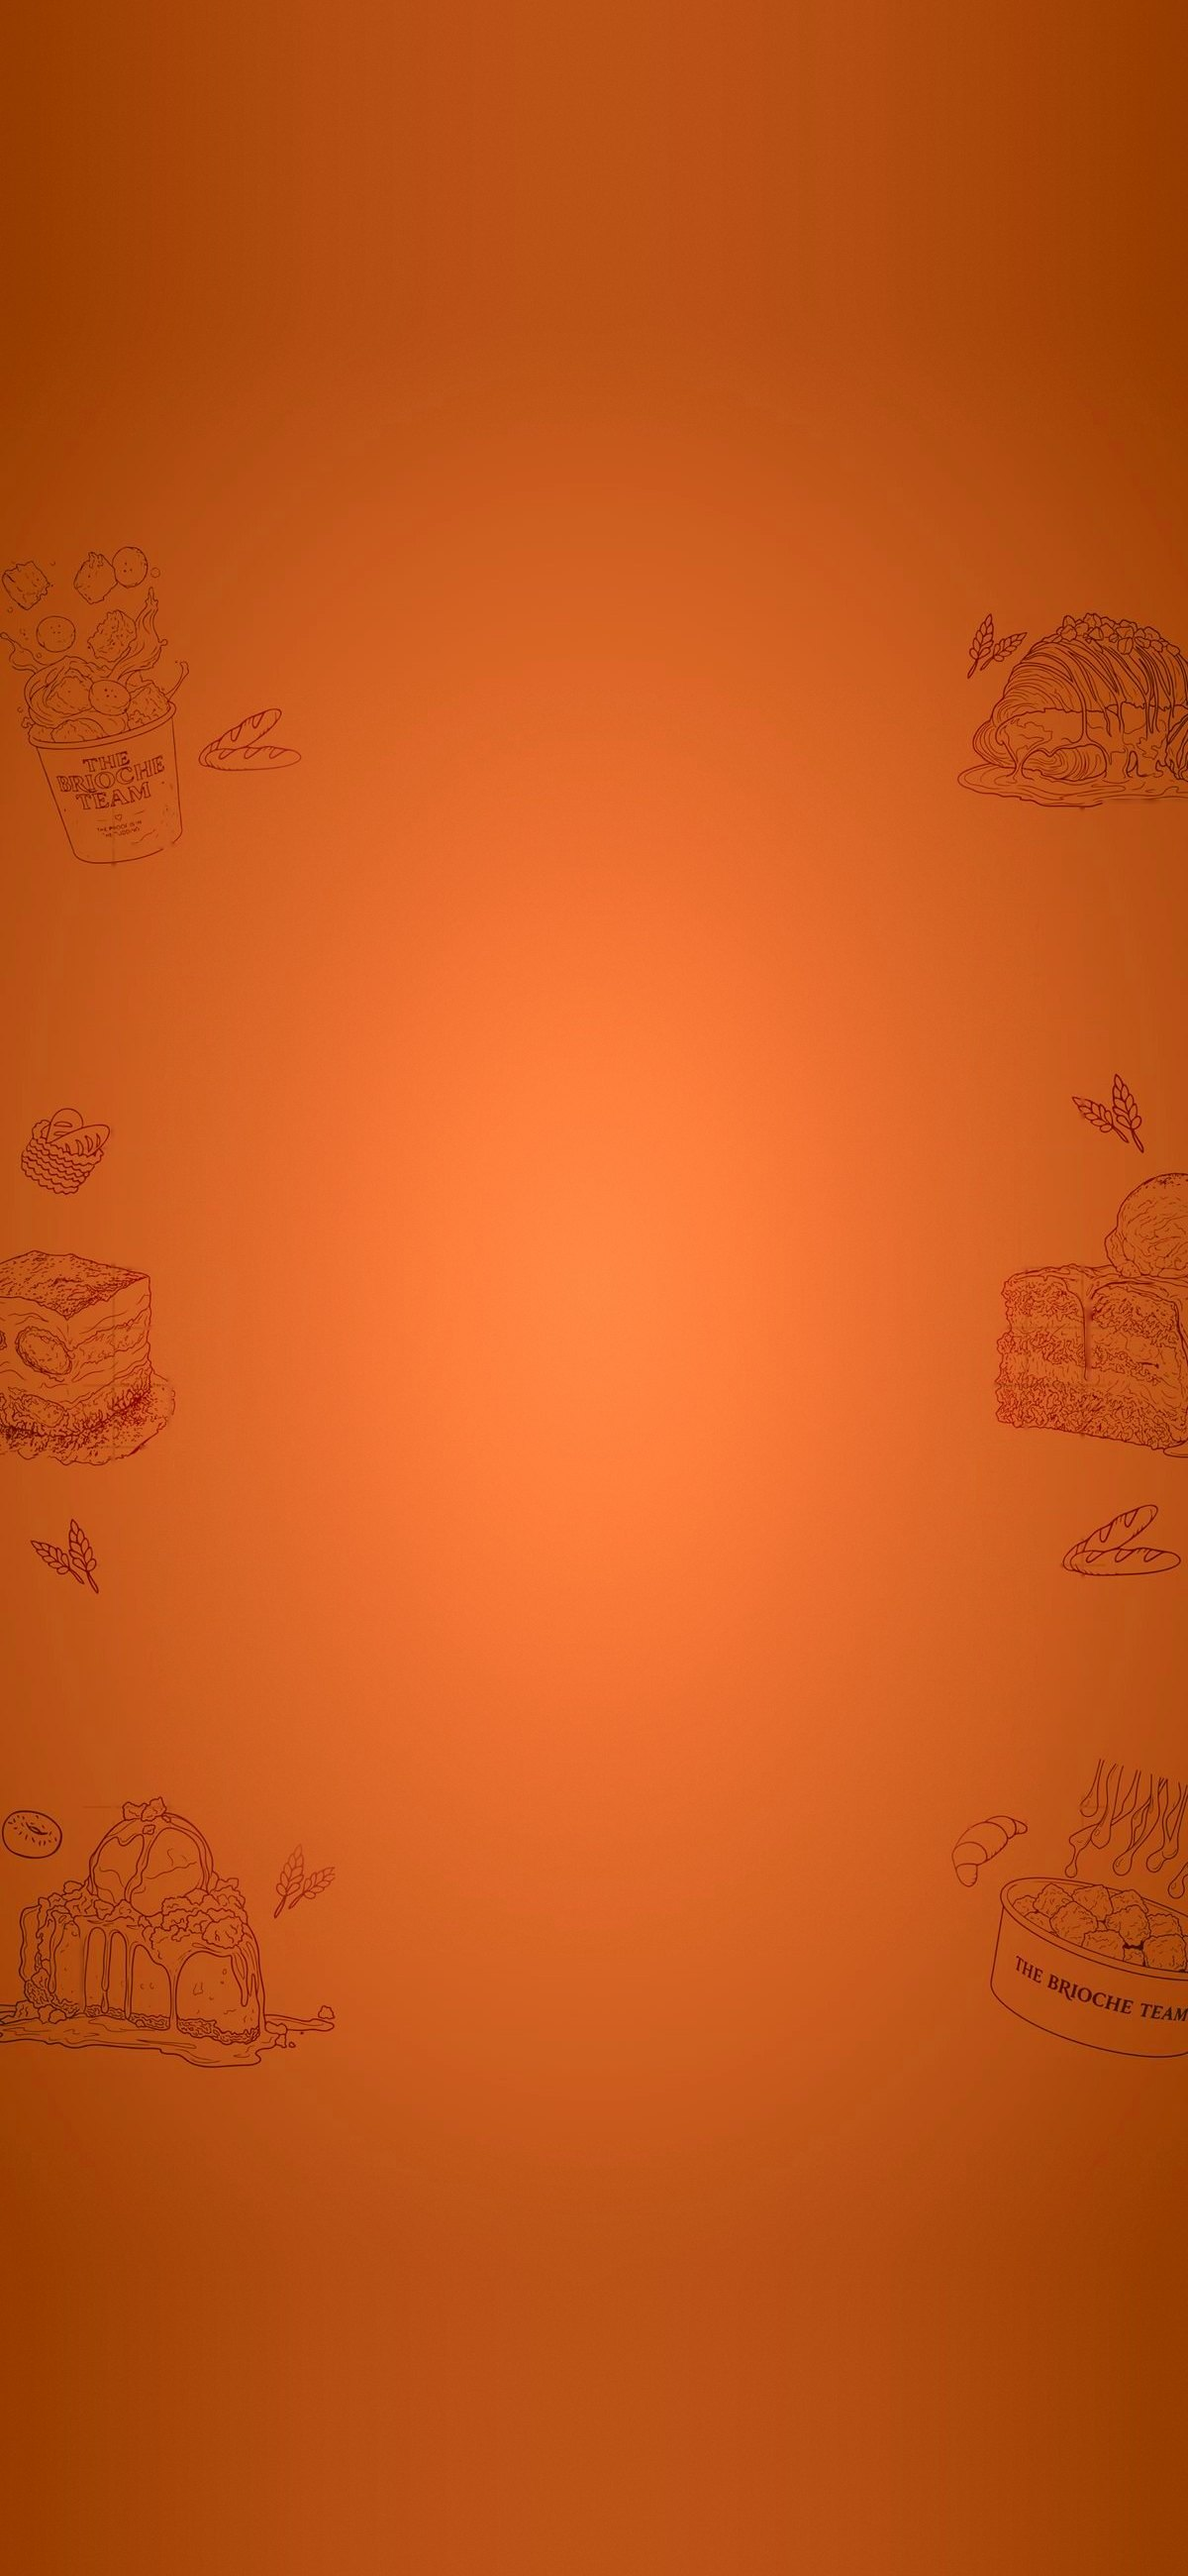
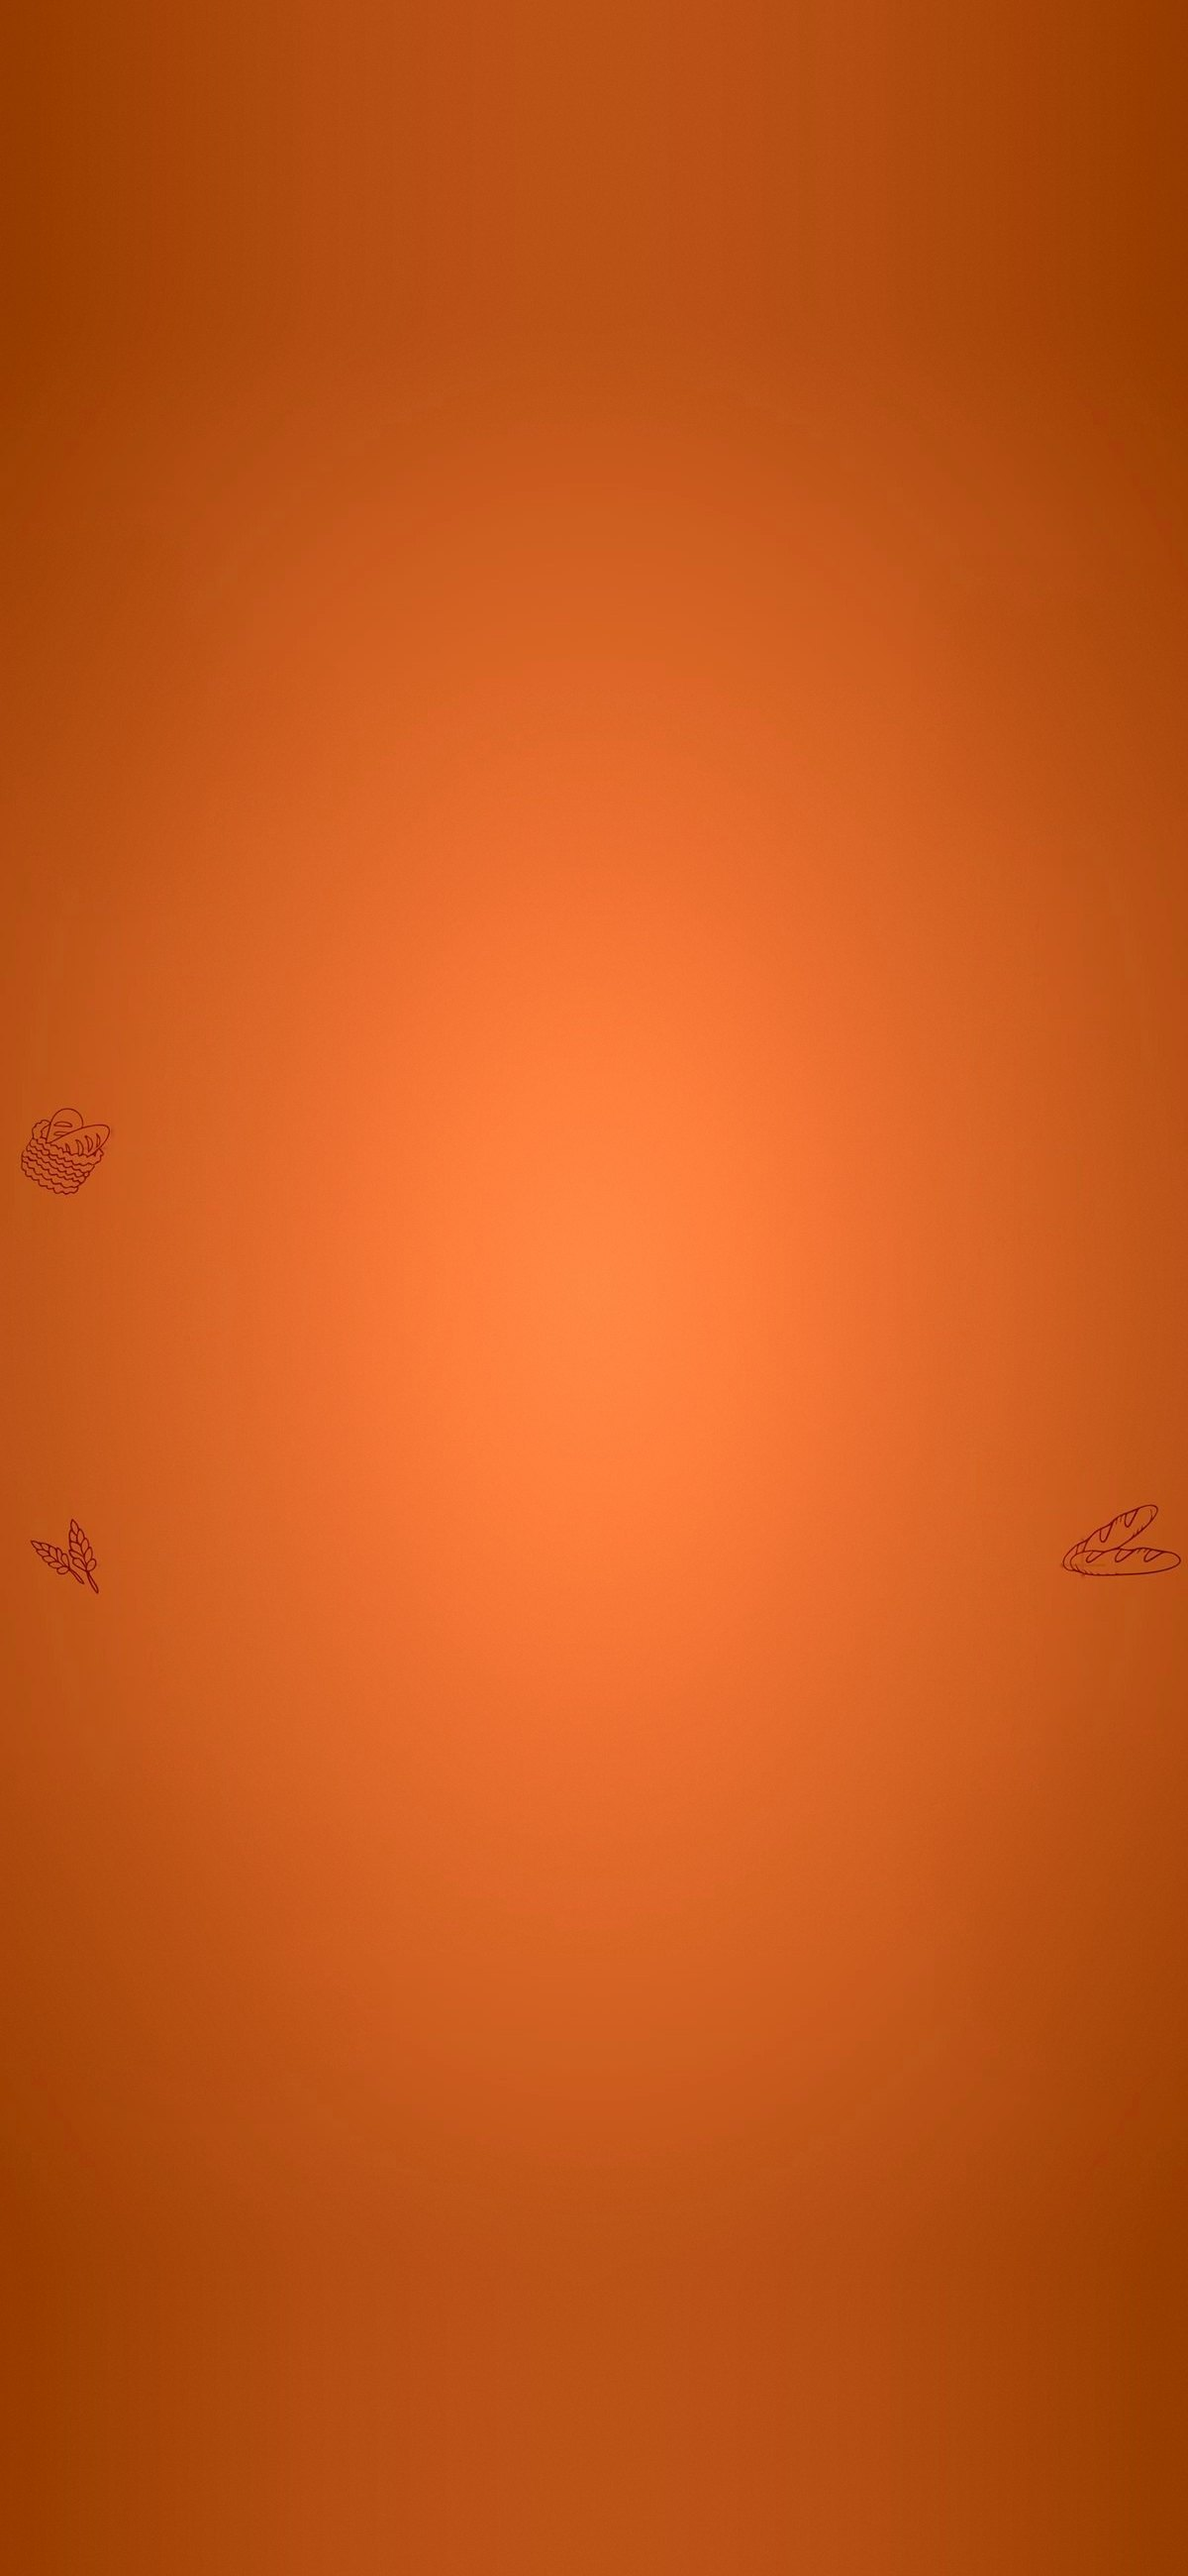
Float the dessert drawings on the home hero
- Cut dessert doodles out of the hero backgrounds (7 desktop, 6 mobile) and animate them with a gentle float
- Hero backdrop now pinned on desktop and mobile; updated background images

Claude-Session: https://claude.ai/code/session_01DxgpEQtUEhHGoBwbBotet4

diff --git a/frontend/src/pages/Home.jsx b/frontend/src/pages/Home.jsx
@@ -37,6 +37,37 @@ const REVIEWS = [
   { p: "Warm, welcoming and impossibly delicious. My family has become regulars. If you only try one thing, make it the Banana Pudding — but honestly, order everything on the menu.", name: "Amina Quran" },
 ];
 
+// Dessert drawings lifted off the hero background so they can float.
+// l/t/w are percentages of the background image they were cut from.
+const DOODLES_D = [
+  { src: "/brioche/hero/doodles/d1.webp", l: 2.847, t: 9.939, w: 11.163, dur: 7.5, delay: 0, dy: -14, rot: -2.2 },
+  { src: "/brioche/hero/doodles/d2.webp", l: 13.576, t: 29.281, w: 5.347, dur: 6.2, delay: -1.4, dy: -10, rot: 3 },
+  { src: "/brioche/hero/doodles/d3.webp", l: 12.726, t: 40.257, w: 13.385, dur: 8.4, delay: -2.6, dy: -16, rot: 1.6 },
+  { src: "/brioche/hero/doodles/d4.webp", l: 2.326, t: 60.708, w: 19.201, dur: 7.0, delay: -0.8, dy: -12, rot: -1.8 },
+  { src: "/brioche/hero/doodles/d5.webp", l: 78.281, t: 5.506, w: 17.413, dur: 8.8, delay: -3.2, dy: -15, rot: 2 },
+  { src: "/brioche/hero/doodles/d6.webp", l: 73.49, t: 31.391, w: 14.219, dur: 6.8, delay: -1.9, dy: -13, rot: -2.4 },
+  { src: "/brioche/hero/doodles/d7.webp", l: 81.753, t: 61.137, w: 12.726, dur: 7.8, delay: -4.1, dy: -14, rot: 1.8 },
+];
+const DOODLES_M = [
+  { src: "/brioche/hero/doodles/m1.webp", l: 0.0, t: 20.692, w: 26.5, dur: 7.5, delay: 0, dy: -14, rot: -2.2 },
+  { src: "/brioche/hero/doodles/m2.webp", l: 0.0, t: 48.038, w: 15.833, dur: 6.2, delay: -1.4, dy: -10, rot: 3 },
+  { src: "/brioche/hero/doodles/m3.webp", l: 0.0, t: 69.231, w: 29.333, dur: 8.4, delay: -2.6, dy: -16, rot: 1.6 },
+  { src: "/brioche/hero/doodles/m4.webp", l: 79.5, t: 23.231, w: 20.5, dur: 7.0, delay: -0.8, dy: -12, rot: -1.8 },
+  { src: "/brioche/hero/doodles/m5.webp", l: 82.583, t: 41.154, w: 17.417, dur: 8.8, delay: -3.2, dy: -15, rot: 2 },
+  { src: "/brioche/hero/doodles/m6.webp", l: 79.0, t: 67.769, w: 21.0, dur: 6.8, delay: -1.9, dy: -13, rot: -2.4 },
+];
+
+const Doodles = ({ list }) =>
+  list.map((d, i) => (
+    <img
+      key={i}
+      className="hero-doodle"
+      src={d.src}
+      alt=""
+      style={{ left: d.l + "%", top: d.t + "%", width: d.w + "%", "--dur": d.dur + "s", "--delay": d.delay + "s", "--dy": d.dy + "px", "--rot": d.rot + "deg" }}
+    />
+  ));
+
 export default function Home() {
   const heroRef = useRef(null);
   const trackRef = useRef(null);
@@ -62,11 +93,18 @@ export default function Home() {
       <div
         className="hero hero-anim-only hero-with-video"
         ref={heroRef}
-        style={{ backgroundImage: "url(/brioche/hero/hero-illustrated-bg.jpg)" }}
       >
-        {/* mobile-only portrait backdrop, pinned to the viewport while the hero scrolls */}
-        <div className="hero-bg-m-clip" aria-hidden="true">
-          <div className="hero-bg-m" style={{ backgroundImage: "url(/brioche/hero/hero-bg-mobile.jpg)" }} />
+        {/* illustrated backdrop, pinned to the screen while the hero scrolls,
+            with the dessert drawings floating on top of it */}
+        <div className="hero-art" aria-hidden="true">
+          <div className="hero-art-pin">
+            <div className="hero-art-stage d" style={{ backgroundImage: "url(/brioche/hero/hero-illustrated-bg.jpg)" }}>
+              <Doodles list={DOODLES_D} />
+            </div>
+            <div className="hero-art-stage m" style={{ backgroundImage: "url(/brioche/hero/hero-bg-mobile.jpg)" }}>
+              <Doodles list={DOODLES_M} />
+            </div>
+          </div>
         </div>
         <motion.div className="texture" style={{ y: textureY }} />
         <Header variant="orange" />

diff --git a/frontend/src/home.css b/frontend/src/home.css
@@ -158,3 +158,22 @@
 
 /* no pattern overlay on the hero — just the illustrated background */
 .home-v2 .hero-with-video .texture{display:none;}
+
+/* ===== Hero backdrop with floating dessert drawings ===== */
+.hero-art{position:absolute;inset:0;overflow:hidden;overflow:clip;z-index:0;pointer-events:none;}
+.hero-art-pin{position:sticky;top:0;width:100%;height:100vh;height:100svh;overflow:hidden;}
+.hero-art-stage{position:absolute;background-size:100% 100%;background-repeat:no-repeat;}
+/* "cover" the screen exactly like the old background did (desktop: centre top) */
+.hero-art-stage.d{left:50%;top:0;width:max(100%, calc(100vh * 2.0594));aspect-ratio:5760 / 2797;transform:translateX(-50%);}
+.hero-art-stage.m{display:none;left:50%;top:50%;width:max(100%, calc(100svh * 0.4615));aspect-ratio:1200 / 2600;transform:translate(-50%,-50%);}
+@media (max-width:860px){
+  .hero-art-stage.d{display:none;}
+  .hero-art-stage.m{display:block;}
+}
+.hero-doodle{position:absolute;height:auto;display:block;will-change:transform;
+  animation:hero-doodle-float var(--dur,7s) ease-in-out var(--delay,0s) infinite;}
+@keyframes hero-doodle-float{
+  0%,100%{transform:translate3d(0,0,0) rotate(0deg);}
+  50%{transform:translate3d(0,var(--dy,-12px),0) rotate(var(--rot,2deg));}
+}
+@media (prefers-reduced-motion: reduce){.hero-doodle{animation:none;}}
